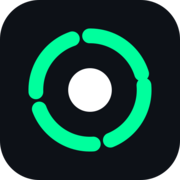
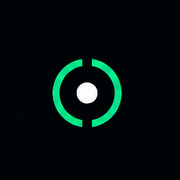
Update site assets and iconography
Replit-Commit-Author: Agent

diff --git a/client/src/pages/landing-zh.tsx b/client/src/pages/landing-zh.tsx
@@ -215,7 +215,7 @@ export default function LandingZh() {
           <header className="public-site-header sticky top-0 z-50 border-b backdrop-blur">
         <div className="container flex h-16 items-center justify-between">
           <a href="/zh" className="flex items-center gap-2" data-testid="link-logo-home-zh">
-              <img src="/pba-logo.svg" alt="Prove Before Act" className="h-8 w-auto" />
+              <img src="/pba-logo.png" alt="Prove Before Act" className="h-8 w-auto" />
           </a>
           <nav className="hidden md:flex items-center gap-6">
             <a href="#how-it-works" className="text-sm font-medium text-muted-foreground hover:text-foreground transition-colors">
@@ -1144,7 +1144,7 @@ print(proof["verify_url"])  # 链上可验证`}
         <div className="container">
           <div className="flex flex-col md:flex-row items-center justify-between gap-4">
             <div className="flex items-center gap-2">
-              <img src="/pba-logo.svg" alt="Prove Before Act" className="h-6 w-auto" />
+              <img src="/pba-logo.png" alt="Prove Before Act" className="h-6 w-auto" />
               <span className="text-xs text-muted-foreground">智能体经济的可信证明层</span>
             </div>
             <nav className="flex flex-wrap items-center gap-4 text-xs text-muted-foreground justify-center">

diff --git a/client/src/components/public-site-chrome.tsx b/client/src/components/public-site-chrome.tsx
@@ -100,7 +100,7 @@ export function PublicSiteHeader({
       >
       <div className="container flex min-h-16 items-center justify-between gap-3">
         <a href="/" className="flex shrink-0 items-center gap-2" data-testid="link-logo-home">
-          <img src={paper ? "/pba-logo-on-light.svg" : "/pba-logo.svg"} alt={PUBLIC_SITE_NAME} className="h-8 w-auto" />
+          <img src={paper ? "/pba-logo-on-light.png" : "/pba-logo.png"} alt={PUBLIC_SITE_NAME} className="h-8 w-auto" />
         </a>
 
         <nav className="hidden items-center gap-6 md:flex" aria-label="Primary navigation">
@@ -229,7 +229,7 @@ export function PublicSiteFooter({ paper = false }: { paper?: boolean }) {
         <div className="mx-auto grid max-w-5xl gap-8 md:grid-cols-4">
           <div className="md:col-span-2">
         <a href="/" className="mb-4 inline-flex">
-              <img src={paper ? "/pba-logo-on-light.svg" : "/pba-logo.svg"} alt={PUBLIC_SITE_NAME} className="h-8 w-auto" />
+              <img src={paper ? "/pba-logo-on-light.png" : "/pba-logo.png"} alt={PUBLIC_SITE_NAME} className="h-8 w-auto" />
             </a>
             <p className={`max-w-xs text-sm ${muted}`}>
               The accountability pattern for agents that act in the world.

diff --git a/client/src/pages/certify.tsx b/client/src/pages/certify.tsx
@@ -379,7 +379,7 @@ export default function Certify() {
         <header className="operational-header">
           <div className="container flex h-16 items-center justify-between gap-4">
             <a href="/" className="flex items-center gap-2" data-testid="link-logo-home">
-              <img src="/pba-logo.svg" alt="Prove Before Act" className="h-8 w-auto" />
+              <img src="/pba-logo.png" alt="Prove Before Act" className="h-8 w-auto" />
             </a>
             <div className="flex items-center gap-2">
               <Button asChild variant="ghost" size="sm" data-testid="button-leaderboard">
@@ -528,7 +528,7 @@ export default function Certify() {
       <header className="operational-header">
         <div className="container flex h-16 items-center justify-between gap-4">
           <a href="/" className="flex items-center gap-2" data-testid="link-logo-home">
-            <img src="/pba-logo.svg" alt="Prove Before Act" className="h-8 w-auto" />
+            <img src="/pba-logo.png" alt="Prove Before Act" className="h-8 w-auto" />
           </a>
           <div className="flex items-center gap-2">
             <Button asChild variant="ghost" size="sm" data-testid="button-leaderboard">

diff --git a/client/src/App.tsx b/client/src/App.tsx
@@ -54,7 +54,7 @@ function Router() {
     return (
       <div className="flex min-h-[100dvh] items-center justify-center bg-background px-6">
         <div className="w-full max-w-xs space-y-5">
-          <img src="/pba-logo.svg" alt="Prove Before Act" className="h-10 w-auto animate-pulse" />
+          <img src="/pba-logo.png" alt="Prove Before Act" className="h-10 w-auto animate-pulse" />
           <div className="space-y-2" aria-label="Loading application">
             <div className="skeleton-line h-2 w-full" />
             <div className="skeleton-line h-2 w-2/3" />
@@ -68,7 +68,7 @@ function Router() {
   const fallback = (
     <div className="flex min-h-[100dvh] items-center justify-center bg-background px-6">
       <div className="w-full max-w-xs space-y-5">
-        <img src="/pba-logo.svg" alt="Prove Before Act" className="h-10 w-auto animate-pulse" />
+        <img src="/pba-logo.png" alt="Prove Before Act" className="h-10 w-auto animate-pulse" />
         <div className="space-y-2" aria-label="Loading page">
           <div className="skeleton-line h-2 w-full" />
           <div className="skeleton-line h-2 w-2/3" />

diff --git a/client/src/pages/fleet-overview.tsx b/client/src/pages/fleet-overview.tsx
@@ -170,7 +170,7 @@ export default function FleetOverviewPage() {
       <header className="operational-header">
         <div className="container flex h-16 items-center justify-between gap-3 px-4">
           <Link href="/dashboard" data-testid="fleet-overview-link-logo" className="flex items-center gap-2">
-            <img src="/pba-logo.svg" alt="Prove Before Act" className="h-8 w-auto" />
+            <img src="/pba-logo.png" alt="Prove Before Act" className="h-8 w-auto" />
           </Link>
           <nav aria-label="Operational navigation" className="flex items-center gap-1 sm:gap-2">
             <Button asChild variant="ghost" size="sm" className="text-foreground/80 hover:bg-muted hover:text-foreground" data-testid="fleet-overview-link-dashboard">

diff --git a/client/src/pages/fleet.tsx b/client/src/pages/fleet.tsx
@@ -157,7 +157,7 @@ export default function FleetPage() {
       >
         <div className="container flex h-16 items-center justify-between gap-3 px-4">
           <Link href="/" data-testid="link-logo-home" className="flex items-center gap-2">
-            <img src="/pba-logo.svg" alt="Prove Before Act" className="h-8 w-auto" />
+            <img src="/pba-logo.png" alt="Prove Before Act" className="h-8 w-auto" />
           </Link>
           <nav className="flex min-w-0 items-center gap-1 sm:gap-4" aria-label="Fleet navigation">
             <Button asChild variant="ghost" size="sm" className="text-muted-foreground hover:bg-muted hover:text-foreground" data-testid="link-nav-coherence">

diff --git a/client/src/pages/agent-context-zh.tsx b/client/src/pages/agent-context-zh.tsx
@@ -1371,7 +1371,7 @@ const anchorTool = tool({
       <header className="sticky top-0 z-50 border-b bg-background/95 backdrop-blur">
         <div className="container flex h-14 items-center justify-between gap-4">
           <a href="/zh" className="flex items-center gap-2 shrink-0" data-testid="link-logo-home-zh">
-            <img src="/pba-logo.svg" alt="Prove Before Act" className="h-7 w-auto" />
+            <img src="/pba-logo.png" alt="Prove Before Act" className="h-7 w-auto" />
           </a>
           <div className="flex items-center gap-2 text-xs text-muted-foreground">
             <Bot className="h-3.5 w-3.5 shrink-0" />

diff --git a/client/src/pages/dashboard.tsx b/client/src/pages/dashboard.tsx
@@ -290,7 +290,7 @@ export default function Dashboard() {
       <header className="operational-header">
         <div className="container flex h-16 items-center justify-between">
           <a href="/" className="flex items-center gap-2" data-testid="link-logo-home">
-            <img src="/pba-logo.svg" alt="Prove Before Act" className="h-8 w-auto" />
+            <img src="/pba-logo.png" alt="Prove Before Act" className="h-8 w-auto" />
           </a>
           <div className="flex items-center gap-2 flex-wrap justify-end">
             <Button asChild variant="ghost" size="sm" data-testid="button-leaderboard">

diff --git a/client/src/pages/settings.tsx b/client/src/pages/settings.tsx
@@ -304,7 +304,7 @@ export default function Settings() {
       <header className="operational-header">
         <div className="container flex h-16 items-center justify-between gap-4">
           <a href="/" className="flex items-center gap-2" data-testid="link-logo-home">
-            <img src="/pba-logo.svg" alt="Prove Before Act" className="h-8 w-auto" />
+            <img src="/pba-logo.png" alt="Prove Before Act" className="h-8 w-auto" />
           </a>
           <div className="flex items-center gap-2">
             <Button asChild variant="ghost" size="sm" data-testid="button-leaderboard">

diff --git a/client/src/pages/credits.tsx b/client/src/pages/credits.tsx
@@ -100,7 +100,7 @@ export default function CreditsPage() {
       <header className="operational-header">
         <div className="container flex h-16 items-center justify-between">
           <Link href="/dashboard" className="flex items-center gap-2">
-            <img src="/pba-logo.svg" alt="Prove Before Act" className="h-8 w-auto" />
+            <img src="/pba-logo.png" alt="Prove Before Act" className="h-8 w-auto" />
           </Link>
           <Button asChild variant="ghost" size="sm">
             <Link href="/dashboard"><ArrowLeft className="mr-2 h-4 w-4" />Dashboard</Link>

diff --git a/client/src/pages/fleet-manage.tsx b/client/src/pages/fleet-manage.tsx
@@ -611,7 +611,7 @@ export default function FleetManagePage() {
       <header className="operational-header">
         <div className="container flex h-16 items-center justify-between gap-4">
           <Link href="/" data-testid="link-logo-home" className="flex items-center gap-2">
-            <img src="/pba-logo.svg" alt="Prove Before Act" className="h-8 w-auto" />
+            <img src="/pba-logo.png" alt="Prove Before Act" className="h-8 w-auto" />
           </Link>
           <nav className="flex items-center gap-3">
             <Button asChild variant="ghost" size="sm">

diff --git a/client/index.html b/client/index.html
@@ -7,7 +7,6 @@
     <meta name="description" content="The accountability pattern for autonomous agents. xProof is the reference implementation: commit a declared decision basis before acting, never internal chain-of-thought, then verify the outcome independently." />
     
     <!-- Favicon & Icons -->
-    <link rel="icon" href="/favicon.svg" type="image/svg+xml" />
     <link rel="icon" href="/favicon-32.png" sizes="32x32" type="image/png" />
     <link rel="icon" href="/favicon.ico" sizes="32x32" />
     <link rel="apple-touch-icon" href="/apple-touch-icon.png" />
